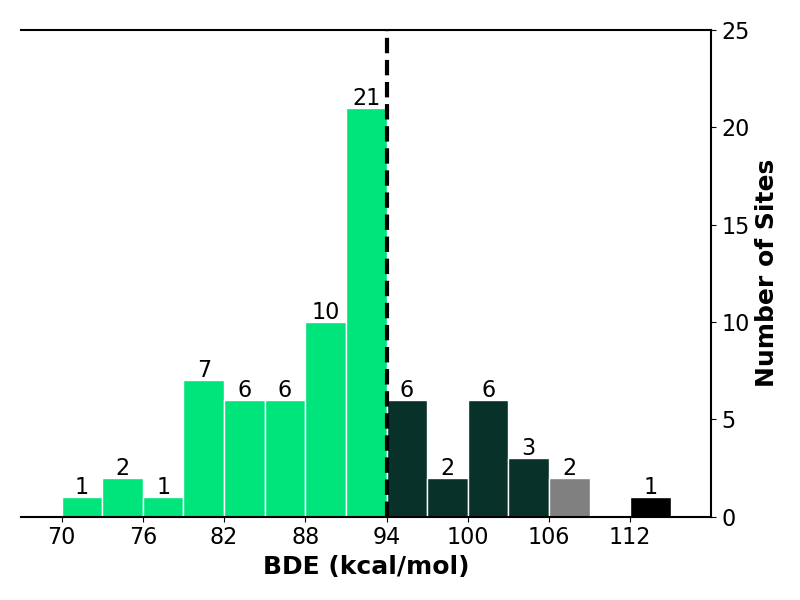
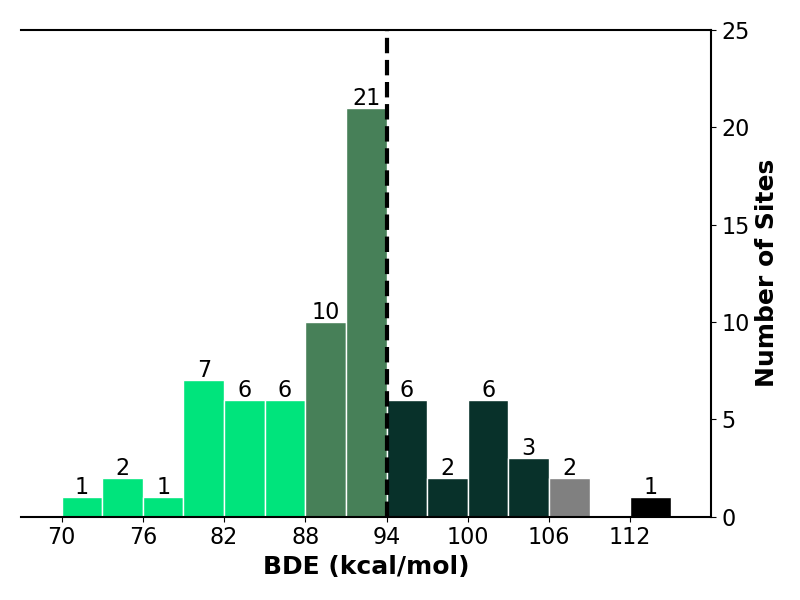
add medium color

Changed region(s): [[0.375, 0.18, 0.5, 0.87]]

diff --git a/04_statistics/gen_2_final/01_bde_distribution.py b/04_statistics/gen_2_final/01_bde_distribution.py
@@ -42,9 +42,12 @@ n, bins, patches = ax.hist(
 )
 
 # Set the last bins to be light green
-for patch in patches[:-7]:
+for patch in patches[:-9]:
     patch.set_facecolor("#00E47C")
 
+for patch in patches[-9:-7]:
+    patch.set_facecolor("#478058")
+    
 patches[-1].set_facecolor("black")
 patches[-3].set_facecolor("grey")
 
